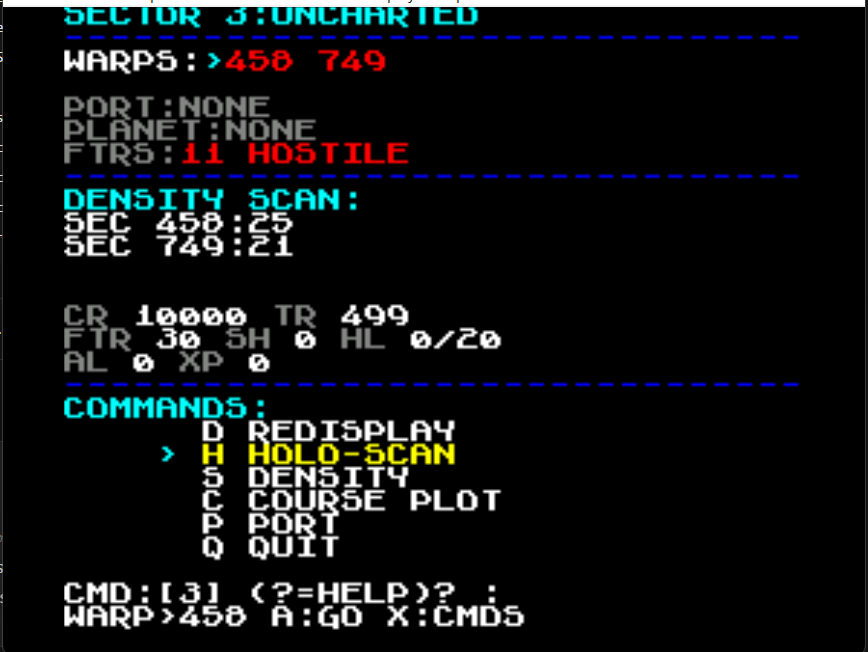
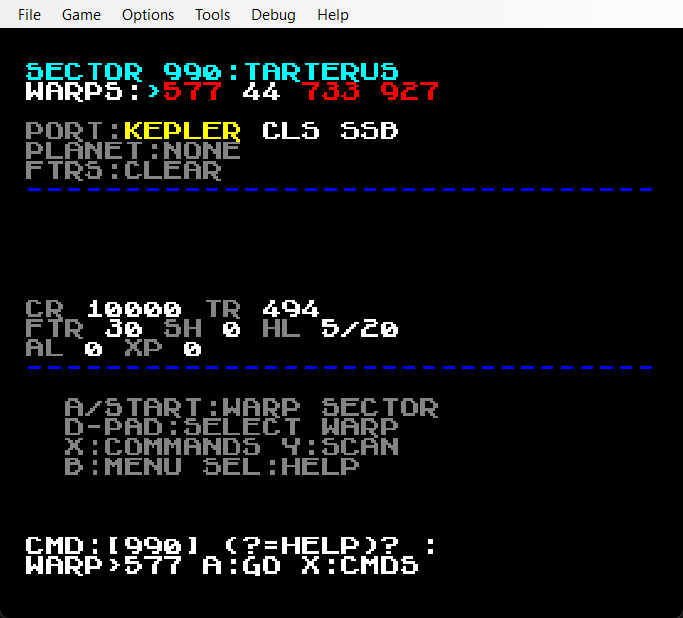
M10 bug fix: top-edge text clipping (overscan margin)
- Sector/port/dock/planet/fight headers drew at tile row 0; dropped each screen's row-1 ruler, headers 0->1, content and prompts untouched

- Host 86/86; sector screen re-shot in Mesen-S + snes9x (refreshed docs/screens/sector.png)

- Docs: devlog/2026-10-02-m10-top-margin.md, MILESTONES, AGENTS, README

Changed region(s): [[0.0, 0.4612, 0.9224, 0.9838], [0.0, 0.0, 1.0, 0.3997], [0.9839, 0.9838, 1.0, 1.0]]

diff --git a/src/main.c b/src/main.c
@@ -1342,13 +1342,11 @@ static void draw_num(void) {
     draw_text();
 }
 static void draw_sec_head(void) {
-    gdx = 0u; gdy = 0u; gdpal = PAL_CYAN;
+    gdx = 0u; gdy = 1u; gdpal = PAL_CYAN;
     gdstr = "SECTOR "; draw_text();
     gn = gsec; draw_num();
     gdstr = ":"; draw_text();
     neb_name(); draw_text();
-    gdy = 1u; gdx = 0u; gdpal = PAL_BLUE;
-    gdstr = rulerow; draw_text();
     gdx = 0u; gdy = 2u; gdpal = PAL_WHITE;
     gdstr = "WARPS:"; draw_text();
     gi = 0u;
@@ -1919,13 +1917,11 @@ static void port_genrow(void) {
     gstock[gportcom] = (uint8_t)gtmp;
 }
 static void draw_porthead(void) {
-    gdx = 0u; gdy = 0u; gdpal = PAL_GRAY;
+    gdx = 0u; gdy = 1u; gdpal = PAL_GRAY;
     gdstr = "PORT "; draw_text();
     gdpal = PAL_YEL; port_name(); draw_text();
     gdpal = PAL_GRAY; gdstr = " CLS "; draw_text();
     gdpal = PAL_WHITE; cls_str(); draw_text();
-    gdy = 1u; gdx = 0u; gdpal = PAL_BLUE;
-    gdstr = rulerow; draw_text();
 }
 static void draw_portrows(void) {
     gi = 0u;
@@ -2309,10 +2305,8 @@ static void dock_count(void) {
     else { gtmp = 4u; }
 }
 static void draw_dockhead(void) {
-    gdx = 0u; gdy = 0u; gdpal = PAL_CYAN;
+    gdx = 0u; gdy = 1u; gdpal = PAL_CYAN;
     gdstr = "STARDOCK SECTOR 1"; draw_text();
-    gdy = 1u; gdx = 0u; gdpal = PAL_BLUE;
-    gdstr = rulerow; draw_text();
     gdx = 0u; gdy = 2u; gdpal = PAL_GRAY;
     gdstr = "CR "; draw_text();
     gdpal = PAL_WHITE; gn = gcredits; draw_num();
@@ -3037,13 +3031,11 @@ static void col_give(void) {
     gholds -= gtmp;
 }
 static void draw_planhead(void) {
-    gdx = 0u; gdy = 0u; gdpal = PAL_GRAY;
+    gdx = 0u; gdy = 1u; gdpal = PAL_GRAY;
     gdstr = "PLANET "; draw_text();
     gdpal = PAL_YEL; port_name(); draw_text();
     gdpal = PAL_GRAY; gdstr = " LV "; draw_text();
     gdpal = PAL_WHITE; gn = gplevel; draw_num();
-    gdy = 1u; gdx = 0u; gdpal = PAL_BLUE;
-    gdstr = rulerow; draw_text();
     gdx = 0u; gdy = 2u; gdpal = PAL_GRAY;
     gdstr = "CIT "; draw_text();
     gdpal = PAL_WHITE;
@@ -3552,11 +3544,9 @@ static void fight_odds(void) {
     if (gsav > 9999u) { gsav = 9999u; }
 }
 static void draw_fighthead(void) {
-    gdx = 0u; gdy = 0u; gdpal = PAL_RED;
+    gdx = 0u; gdy = 1u; gdpal = PAL_RED;
     gdstr = "COMBAT: "; draw_text();
     gdpal = PAL_YEL; ship_name(); draw_text();
-    gdy = 1u; gdx = 0u; gdpal = PAL_BLUE;
-    gdstr = rulerow; draw_text();
     gdx = 0u; gdy = 2u; gdpal = PAL_GRAY;
     gdstr = "ENEMY FTRS "; draw_text();
     gdpal = PAL_WHITE; gn = genftrs; draw_num();

diff --git a/devlog/2026-10-02-m10-top-margin.md b/devlog/2026-10-02-m10-top-margin.md
@@ -1,0 +1,19 @@
+# 2026-10-02 - M10 bug fix: top-edge text clipping (overscan margin)
+
+Report: text chopped at the top edge of the screen. Root cause:
+sector/port/dock/planet/fight headers all drew at tile row 0, which
+CRT overscan (and tight emulator crops) clip. Even our own Mesen-S
+screenshots show the row-0 header touching the frame edge
+(docs/screens/sector.png before refresh).
+
+Fix (size-negative, bottom-safe): dropped each screen's decorative
+row-1 ruler and moved its header 0→1. Content rows 2+ untouched, so
+prompts stay off row 27 (no bottom-clip trade). 5 sites, no behavior
+or text change; host suite unaffected in kind (86/86 re-proven).
+
+Verified: tour-8 end screen re-shot in Mesen-S + snes9x (identical):
+clear margin above SECTOR 990 header, white 44 intact. The refreshed
+docs/screens/sector.png replaces the clipped M3-era capture.
+
+Rule of thumb going forward: keep text within rows 1-26 (title art
+pixels at rows 0-1 are decorative and stay).

diff --git a/MILESTONES.md b/MILESTONES.md
@@ -247,6 +247,12 @@ CEYLAD megaholds exploit fixed by design (holds capped, overflow pooled).
   for cursor/starfield only — full-screen sprites are impossible on
   hardware: 128 sprites / 32-per-scanline max)
 - [ ] **Bug Fixes** - 6666 bug (MRL=0), holds bug, shield bug, cloak reliability
+- [x] **Top-edge clipping** (FIXED 2026-10-02) - Sector/port/dock/
+  planet/fight headers drew at tile row 0 (CRT overscan clips it;
+  visible even in emulator captures). Dropped each screen's row-1
+  ruler, headers moved 0→1; content rows and prompts untouched.
+  Host 86/86, re-shot in Mesen-S + snes9x. See
+  devlog/2026-10-02-m10-top-margin.md
 - [ ] **Options Menu** - ANSI on/off, sound, difficulty, controller config
 - [ ] **Cartridge Build** - Header, checksum, LoROM/HiROM, FastROM toggle
 

diff --git a/AGENTS.md b/AGENTS.md
@@ -5,6 +5,12 @@ SNES homebrew game (spiritual successor to Tradewars 2002). Licensed GPL-3.0.
 
 ## Current Status (2026-10-02)
 
+- ✅ **M10 bug fix COMPLETE 2026-10-02** — Top-edge text clipping:
+  all 5 headers drew at tile row 0 (overscan clips it). Dropped each
+  screen's row-1 ruler, headers 0→1; rows 2+ and prompts untouched
+  (no bottom-clip trade). Host 86/86; sector screen re-shot in
+  Mesen-S + snes9x. Rule: keep text within rows 1-26. See
+  devlog/2026-10-02-m10-top-margin.md.
 - ✅ **M10 seed slice COMPLETE 2026-10-02** — Universe seed: new-game
   16-button mash (glyph cells + weave bar, B back, A confirm), mixed
   into sector gen (`ghash ^= gunivseed`, seed 0 = legacy), SRAM v9.

diff --git a/README.md b/README.md
@@ -8,7 +8,7 @@ All captures are real emulator screenshots (snes9x) of the actual ROM.
 | Title screen | Sector view (warped to Sector 3) |
 |---|---|
 | ![Title screen](docs/screens/title.png) | ![Sector view](docs/screens/sector.png) |
-| ANSI starfield, planet, freighter, blinking PRESS START | Warps (red = unvisited), port/planet/ftrs, status bar, CMD prompt |
+| ANSI starfield, planet, freighter, blinking PRESS START | Sector 990: white visited warp, port/planet/ftrs, status bar, CMD prompt |
 
 | Command palette + warp | Starport trading |
 |---|---|
